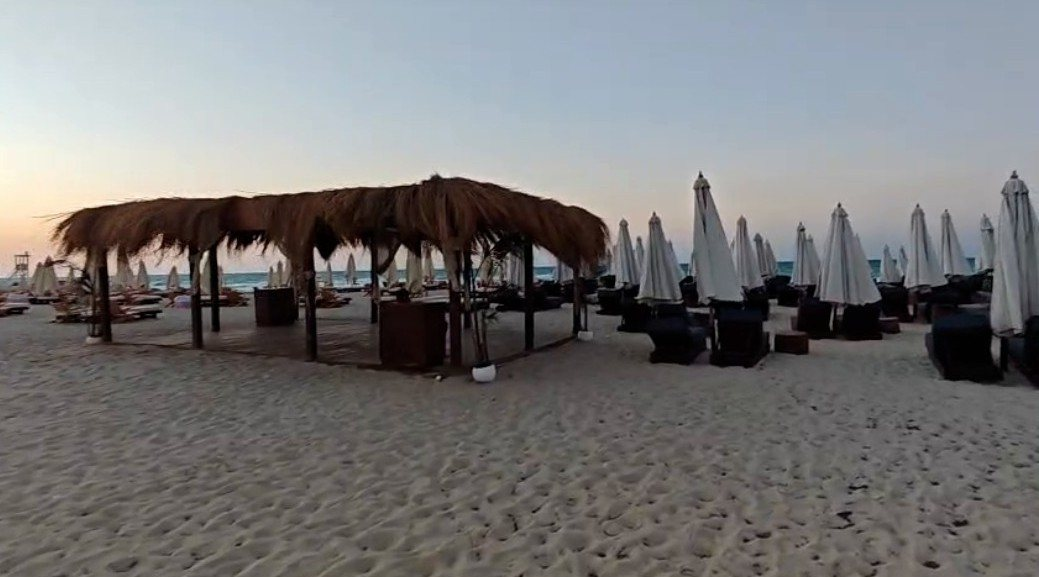
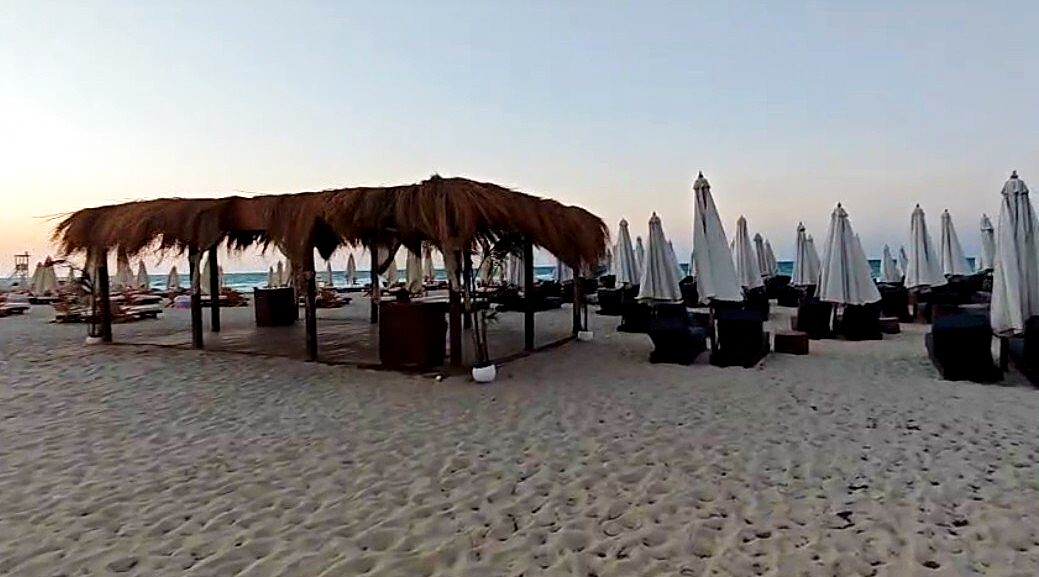
Add files via upload

diff --git a/index.html b/index.html
@@ -50,6 +50,7 @@ nav button svg{width:22px;height:22px;stroke:currentColor;fill:none;stroke-width
 nav button.on{color:var(--navy);font-weight:600}
 @media(min-width:900px){main{max-width:980px}.hero img{height:420px}.hero h1{font-size:40px}.hero p{font-size:17px}.pad{padding:28px 24px}.facts{grid-template-columns:repeat(4,1fr)}.tiles{grid-template-columns:repeat(4,1fr)}.card img{max-height:380px}.pics img{height:240px}p,li{font-size:16px}}
 .plc{display:flex;gap:14px;align-items:center}.card img.lg,.lg{width:84px;height:64px;max-height:64px;object-fit:contain;flex:none;background:#f6f3ee;border-radius:10px;padding:6px}.nl{display:flex;align-items:center;justify-content:center;font-size:10px;color:#999}.plc small{color:#777}.plc h3{margin:0 0 2px}.plc p{margin:4px 0 0}nav button{font-size:10px}nav::-webkit-scrollbar{display:none}nav{scrollbar-width:none;overflow-x:auto;-webkit-overflow-scrolling:touch}nav button{flex:1 1 0;min-width:0;padding-left:0;padding-right:0;font-size:9px;white-space:nowrap}nav button svg{width:20px;height:20px}
+.pics img:last-child:nth-child(odd){grid-column:1/-1}
 </style></head><body>
 <header><img src="logo.png" alt="Casa White Hotel"></header>
 <main>
@@ -100,12 +101,13 @@ nav button.on{color:var(--navy);font-weight:600}
  <div class="card"><img src="dining.jpg" alt="Dining"><div class="b">
   <h3>Main Restaurant</h3><p>The hotel's main dining venue.</p><br>
   <h3>Roof Top Restaurant</h3><p>Open-air rooftop dining with panoramic views. Timber pergola terrace with open sea views.</p></div></div>
- <div class="pics"><img src="dining2.jpg" alt="Main Restaurant"><img src="roof1.jpg" alt="Roof Top Restaurant"><img src="roof2.jpg" alt="Roof Top Restaurant terrace"><img src="bar1.jpg" alt="Beach Bar"></div>
+ <div class="pics"><img src="dining2.jpg" alt="Main Restaurant"><img src="roof1.jpg" alt="Roof Top Restaurant"><img src="roof2.jpg" alt="Roof Top Restaurant terrace"></div>
  <h3 style="margin:18px 0 8px">Bars</h3>
  <div class="card"><div class="b">
   <div class="room"><div><b>Lobby Bar</b><small>In the lobby</small></div></div>
   <div class="room"><div><b>Pool Bar</b><small>Beside the pool</small></div></div>
-  <div class="room"><div><b>Beach Bar</b><small>On the private beach</small></div></div></div></div>
+  <div class="room"><div><b>Beach Bar</b><small>On the private beach</small></div></div></div>
+  <img src="bar1.jpg" alt="Beach Bar on the private beach"></div>
  <h3 style="margin:18px 0 8px">Steps away from Casa White</h3>
  <div class="chips"><span>Kiki's Beach</span><span>Scalini Restaurant</span><span>Lucida</span><span>Galambo</span><span>Lemon Tree</span><span>Casa Cook North Coast</span><span>La plage by La Maison Ani Egypt</span></div>
 </div></section>

diff --git a/sw.js b/sw.js
@@ -1,4 +1,4 @@
-const C='casawhite-v18';
+const C='casawhite-v19';
 const A=['./','index.html','manifest.json','bar1.jpg','bar2.jpg','beach.jpg','beach2.jpg','beach3.jpg','dining.jpg','dining2.jpg','golf1.jpg','golf2.jpg','gym1.jpg','gym2.jpg','gym3.jpg','gym4.jpg','hero.jpg','icon-192.png','icon-512.png','location.jpg','logo.png','lounge.jpg','pool.jpg','pool2.jpg','pool3.jpg','reception.jpg','roof1.jpg','roof2.jpg','rooftop_pool.jpg','room.jpg','room2.jpg','room3.jpg','shuttle.jpg','st_amen.jpg','st_balcony.jpg','st_bed.jpg','st_living.jpg','st_living2.jpg','st_shower.jpg','suite_balcony.jpg','suite_bedroom.jpg','suite_living.jpg','scalini.svg','casacook.png','galambo.svg','tlt.png','kikis.png','plage.png','lucida.jpg','n_lucida1.jpg','n_kikis1.jpg','n_kikis2.jpg','n_scalini1.jpg','n_galambo1.jpg','n_galambo2.jpg','n_lemon1.jpg','n_cc1.jpg','n_cc2.jpg','n_plage1.jpg'];
 self.addEventListener('install',e=>{self.skipWaiting();e.waitUntil(caches.open(C).then(c=>c.addAll(A.map(u=>new Request(u,{cache:'reload'})))).catch(()=>{}))});
 self.addEventListener('activate',e=>e.waitUntil((async()=>{for(const k of await caches.keys()){if(k!==C)await caches.delete(k)}await self.clients.claim();for(const c of await self.clients.matchAll({type:'window'})){try{c.navigate(c.url)}catch(x){}}})()));
